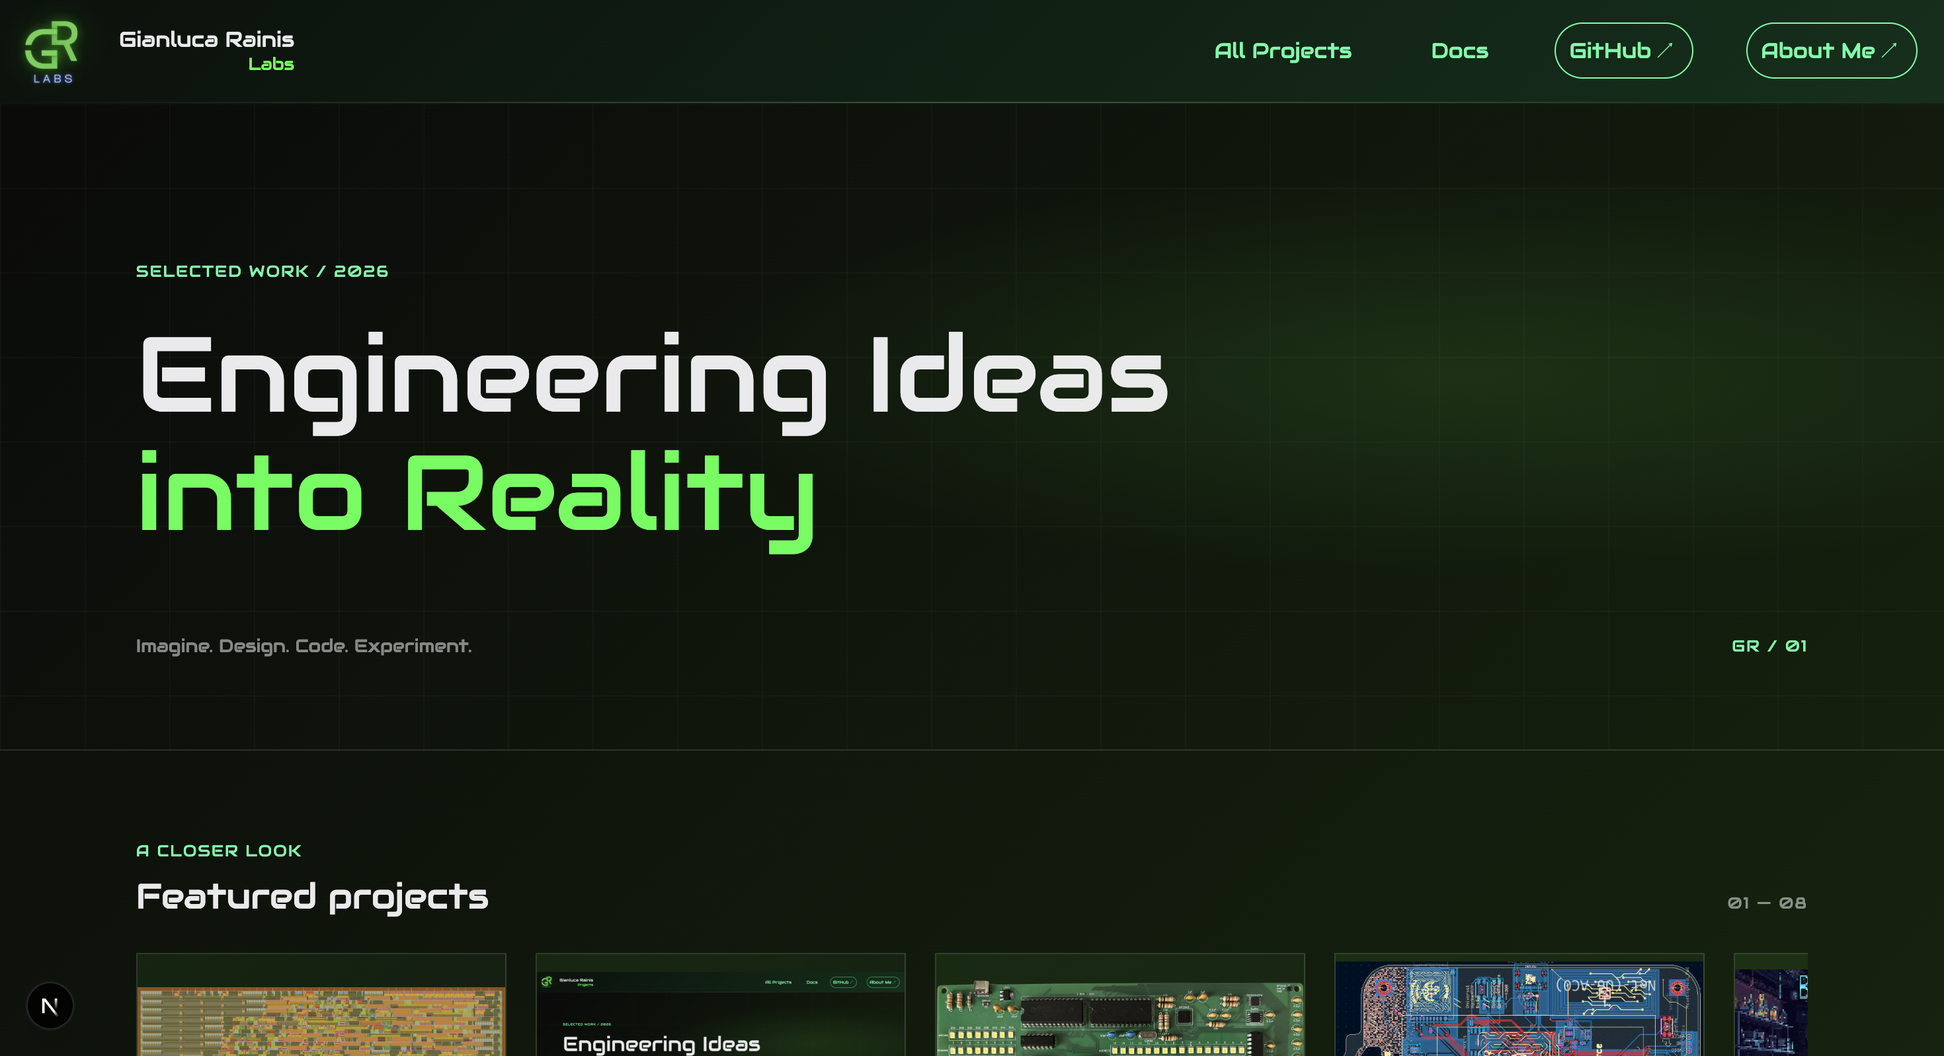
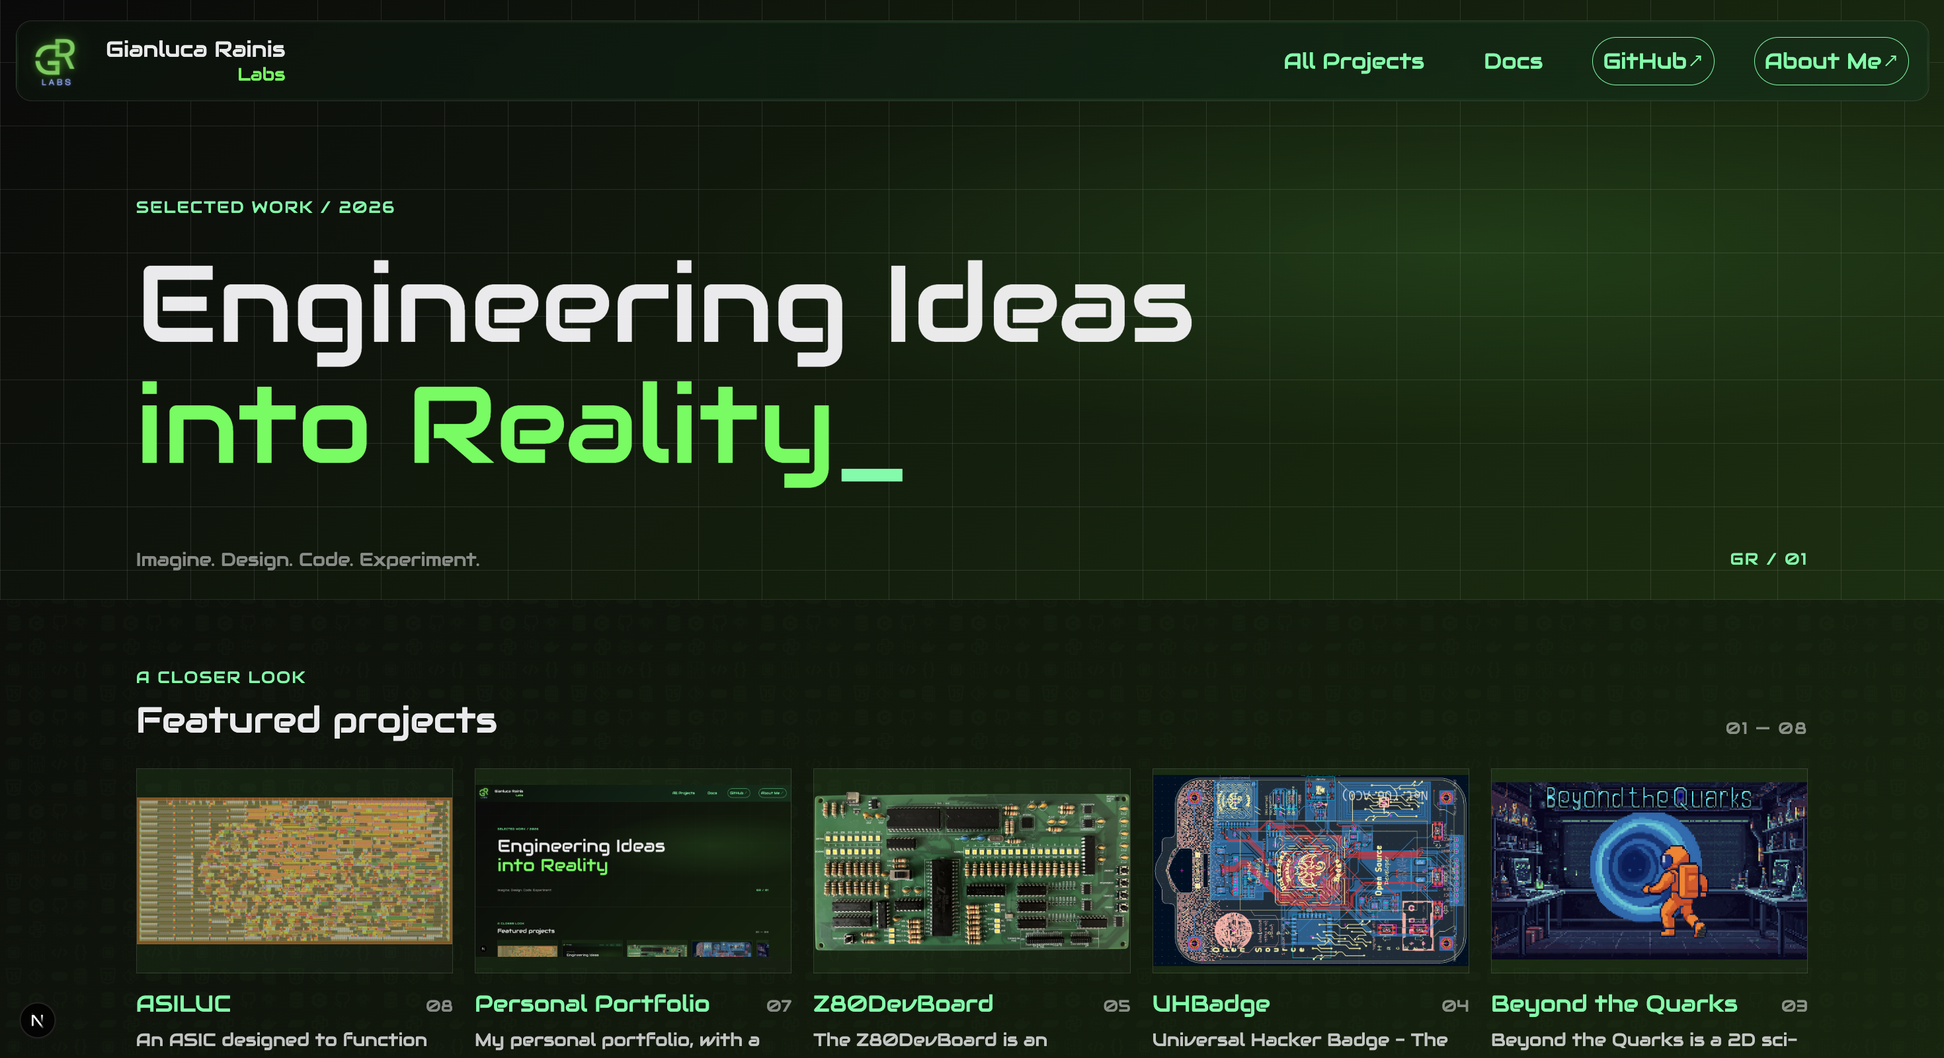
Wrote the personal portfolio page. Fixed some details.

diff --git a/pages/projects/personalPortfolio.js b/pages/projects/personalPortfolio.js
@@ -1,0 +1,345 @@
+import Head from '@/components/Head';
+import Nav from '@/components/Nav';
+import Footer from '@/components/Footer';
+import styles from '@/styles/projects.module.css';
+import { usePathname } from 'next/navigation';
+import Link from 'next/link';
+import { MoveLeft, MoveRight, BookOpenText, Link as LinkIcon } from 'lucide-react';
+import { useState } from 'react';
+
+export async function getStaticProps() {
+    return {
+        props: {
+            pageTitle: "Personal Portfolio"
+        }
+    };
+}
+
+export default function ProjectPage({ pageTitle }) {
+    const path = usePathname();
+    const [isSubmitting, setIsSubmitting] = useState(false);
+    const [formStatus, setFormStatus] = useState('');
+
+    async function handleSupportSubmit(event) {
+        event.preventDefault();
+        setIsSubmitting(true);
+        setFormStatus('');
+
+        const form = event.currentTarget;
+        const formData = new FormData(form);
+
+        try {
+            const response = await fetch('/api/contact', {
+                method: 'POST',
+                headers: { 'Content-Type': 'application/json' },
+                body: JSON.stringify({
+                    senderName: formData.get('senderName'),
+                    replyEmail: formData.get('replyEmail'),
+                    subject: formData.get('subject'),
+                    message: formData.get('message')
+                })
+            });
+
+            const result = await response.json();
+
+            if (!response.ok) {
+                throw new Error(result.error || 'Unable to send your message.');
+            }
+
+            form.reset();
+            setFormStatus('Your support message has been sent. Thank you!');
+        } catch (error) {
+            setFormStatus(error.message || 'Unable to send your message. Please try again.');
+        } finally {
+            setIsSubmitting(false);
+        }
+    }
+
+    return (
+        <>
+            <Head pageTitle={pageTitle} pageUrl={path} />
+            <Nav />
+
+            <main className={styles.projectPage}>
+                <header className={styles.projectHeader}>
+                    <Link href='/projects' className={styles.backLink}><MoveLeft className={styles.backarrowIcon} /> All projects</Link>
+                    <div>
+                        <div className={styles.projectHeaderInfo}>
+                            <h1>Personal Portfolio</h1>
+                            <ul>
+                                <li className={styles.projectCategory}>Website</li>
+                                <li className={styles.projectStatus}>In Development</li>
+                            </ul>
+                        </div>
+                        <p className={styles.projectDescription}>My personal portfolio, with a high-tech inspired interface.</p>
+                        <ul className={styles.projectTags}>
+                            <li>personal portfolio</li>
+                            <li>website</li>
+                            <li>nextjs</li>
+                            <li>react</li>
+                            <li>high-tech</li>
+                        </ul>
+                    </div>
+                    <img src="/projects/personalPortfolioPreview.png" alt="Project image" className={styles.projectImage} />
+                    <div className={styles.projectLinks}>
+                        <a href="https://github.com/gianluca-rainis/personalPortfolio" className={styles.projectLink} target="_blank" rel="noopener noreferrer">
+                            <img src="/GitHubLogo.svg" alt="GitHub icon" />
+                            <div className={styles.projectLinkText}>
+                                <p>View on GitHub <MoveRight className={styles.forwardArrowIcon} /></p>
+                                <p>Source Code, Documentation & More</p>
+                            </div>
+                        </a>
+                        <a href="https://projects.gianlucarainis.com/" className={styles.projectLink} target="_blank" rel="noopener noreferrer">
+                            <LinkIcon />
+                            <div className={styles.projectLinkText}>
+                                <p>Live demo <MoveRight className={styles.forwardArrowIcon} /></p>
+                                <p>Browse the portfolio</p>
+                            </div>
+                        </a>
+                    </div>
+                </header>
+                <section className={styles.projectContent}>
+                    <aside className={styles.aside}>
+                        <nav className={styles.desktopAside} aria-label="Project sections">
+                            <Link href="#overview"><BookOpenText /> Overview</Link>
+                            <Link href="#architecture"><BookOpenText /> Architecture</Link>
+                            <Link href="#code"><BookOpenText /> Code</Link>
+                            <Link href="#resources"><BookOpenText /> Resources</Link>
+                            <Link href="#support"><BookOpenText /> Support</Link>
+                        </nav>
+                        <details className={styles.asideMenu}>
+                            <summary>On this page</summary>
+                            <nav aria-label="Project sections">
+                                <Link href="#overview"><BookOpenText /> Overview</Link>
+                                <Link href="#architecture"><BookOpenText /> Architecture</Link>
+                                <Link href="#code"><BookOpenText /> Code</Link>
+                                <Link href="#resources"><BookOpenText /> Resources</Link>
+                                <Link href="#support"><BookOpenText /> Support</Link>
+                            </nav>
+                        </details>
+                    </aside>
+                    <article className={styles.projectArticle}>
+                        <section id="overview">
+                            <h2>Overview</h2>
+                            <p>
+                                This portfolio is the place where all my projects live.
+                                It's built with Next.js and React, and it has a high-tech inspired interface.
+                                It collects the projects I work on in one place, together with the documentation, the researches and the guides that explain how they work.
+                            </p>
+                            <p>
+                                The projects are not just a list of links: every project has its own page, with an overview, the architecture, the most interesting parts of the code and the resources to try it or read more.
+                                The documents are written in MDX, so they are rendered directly inside the site, with their own metadata.
+                            </p>
+                            <img src="/projects/personalPortfolioPreview.png" alt="Personal portfolio home page" />
+                            <citation>The home page of the portfolio</citation>
+                        </section>
+                        <section id="architecture">
+                            <h2>Architecture</h2>
+
+                            <h3>Website structure</h3>
+                            <p>
+                                The portfolio is a Next.js application made of five kinds of pages.
+                                Every page shares the same head, navigation bar and footer, which are separate components reused across the site.
+                            </p>
+                            <ul>
+                                <li><strong>Home</strong>: shows the featured projects and all the other projects. It also works as a manifesto for the website.</li>
+                                <li><strong>Projects</strong>: shows all the projects, with filters and a search function.</li>
+                                <li><strong>Docs</strong>: collects the documentation, the documents, the researches and the guides about the projects.</li>
+                                <li><strong>Project Page</strong>: one page for every project, with detailed information, images and technical informations.</li>
+                                <li><strong>Document Page</strong>: one page for every document, with integrated MDX rendering and document metadata.</li>
+                            </ul>
+
+                            <h3>Projects</h3>
+                            <p>
+                                The information shown in the project cards is stored in a dedicated data folder, separated from the interface.
+                                The home page and the projects page read that same data to build their lists, so a card only has to be written once.
+                            </p>
+                            <p>
+                                Every project also has its own page, written separately from the data, usually with an overview, the architecture, the code and the resources.
+                                The projects page lets the visitor narrow the list of cards with filters and a search function, so even a long list stays easy to explore.
+                            </p>
+                            <img src="/projects/personalPortfolioProjects.png" alt="Personal portfolio projects page" />
+                            <citation>The projects page, with filters and search</citation>
+
+                            <h3>Documents</h3>
+                            <p>
+                                The documents are MDX files stored in a separate folder of the repository.
+                                MDX allows writing the content in Markdown and using React components inside it, so a document can be a simple guide or a more complex page.
+                            </p>
+                            <p>
+                                Each document has its own metadata (for example title and description) that is shown with the content and used to list it in the docs page.
+                            </p>
+                            <img src="/projects/personalPortfolioDocs.png" alt="Personal portfolio docs page" />
+                            <citation>The docs page</citation>
+                        </section>
+                        <section id="code">
+                            <h2>Code</h2>
+                            <p>
+                                The portfolio is developed with Next.js and React, with CSS modules for the styles.
+                                The code is split in components, data, documents and internal functions, so each part can be changed without touching the rest.
+                                The following sections explore some of the key parts of the implementation.
+                            </p>
+
+                            <h3>Project structure</h3>
+                            <p>
+                                The repository follows the standard Next.js layout, with some extra folders for the content of the portfolio.
+                            </p>
+                            <pre>
+                                <code>
+                                    {String.raw`personalPortfolio/
+├── components/        # UI pieces of the site
+├── data/              # The projects informations
+├── docs/              # The documentation to show in the Docs section
+├── lib/               # Implementation of internal functions
+├── pages/             # Site pages
+├── public/            # Images and downloadable files
+├── styles/            # Global styles and CSS modules
+├── mdx-components.tsx # Component to support the mdx files rendering
+└── next.config.mjs    # Next.js Configuration to support the mdx files`}
+                                </code>
+                            </pre>
+                            <p>
+                                The content is kept apart from the interface: <code>data</code> and <code>docs</code> hold what is shown, while <code>components</code>, <code>pages</code> and <code>styles</code> decide how it is shown.
+                            </p>
+
+                            <h3>Projects data</h3>
+                            <p>
+                                Every project is described by a single object, which contains everything the cards and the filters need.
+                            </p>
+                            <pre>
+                                <code>
+                                    {String.raw`{
+    {
+        "number": "07",
+        "category": "Website",
+        "title": "Personal Portfolio",
+        "description": "My personal portfolio, with a high-tech inspired interface.",
+        "image": "/projects/personalPortfolioPreview.png",
+        "imageAlt": "Image of my personal portfolio's home page",
+        "tags": ["personal portfolio", "website", "nextjs", "react", "high-tech"],
+        "status": "In Development",
+        "href": "/projects/personalPortfolio",
+        "featured": true
+    },
+}`}
+                                </code>
+                            </pre>
+                            <p>
+                                The <code>featured</code> value decides which projects are shown in the first section of the home page.
+                            </p>
+
+                            <h3>Filters and search</h3>
+                            <p>
+                                The projects page keeps the filters and the search text in its state, and computes the visible list from the full data every time one of them changes.
+                            </p>
+                            <pre>
+                                <code>
+                                    {String.raw`const visibleProjects = useMemo(() => {
+    const query = searched.trim().toLowerCase();
+
+    const filteredProjects = projects.filter((project) => {
+        const matchesTag = selectedTag === 'all' || project.tags.includes(selectedTag);
+        
+        const searchableText = [
+            project.number,
+            project.category,
+            project.title,
+            project.description,
+            project.imageAlt,
+            project.status,
+            ...project.tags
+        ].join(' ').toLowerCase();
+
+        return matchesTag && searchableText.includes(query);
+    });
+
+    return filteredProjects.sort((first, second) => {
+        if (sortOrder === 'title-asc') {
+            return first.title.localeCompare(second.title);
+        }
+
+        const numberDifference = Number(first.number) - Number(second.number);
+
+        return sortOrder === 'number-asc' ? numberDifference : -numberDifference;
+    });
+}, [searched, selectedTag, sortOrder]);`}
+                                </code>
+                            </pre>
+                            <p>
+                                The original list is never modified, so removing a filter or clearing the search brings back every project.
+                            </p>
+
+                            <h3>MDX rendering</h3>
+                            <p>
+                                The Next.js configuration includes a dedicated file to support MDX, and a components file that tells the site how to render each element of a document.
+                                This way all the documents share the same look of the rest of the portfolio.
+                            </p>
+                        </section>
+                        <section id="resources">
+                            <h2>Resources</h2>
+                            <p>
+                                Explore the resources available for the portfolio, including the source code, the documentation and the live version.
+                            </p>
+
+                            <h3>Live Website</h3>
+                            <p>
+                                The portfolio is online and always up to date.
+                                Browse the projects, use the filters and open some documents to see how the pages work.
+                            </p>
+                            <p>
+                                <a href="https://projects.gianlucarainis.com/" target="_blank" rel="noopener noreferrer" style={{ display: 'flex', width: 'fit-content' }}>
+                                    Visit projects.gianlucarainis.com <MoveRight className={styles.forwardarrowIcon} />
+                                </a>
+                            </p>
+
+                            <h3>Source Repository</h3>
+                            <p>
+                                All project files, including the pages, the components, the data and the documents, are publicly available on GitHub under the MIT license.
+                            </p>
+                            <p>
+                                <a href="https://github.com/gianluca-rainis/personalPortfolio" target="_blank" rel="noopener noreferrer" style={{ display: 'flex', width: 'fit-content' }}>
+                                    Visit the GitHub repository <MoveRight className={styles.forwardarrowIcon} />
+                                </a>
+                            </p>
+                        </section>
+                        <section id="support">
+                            <h2>Support</h2>
+                            <p>
+                                Found a bug, have a question, or want to contribute to my personal portfolio?
+                                Send me a message and I will get back to you.
+                            </p>
+                            <form className={styles.supportForm} onSubmit={handleSupportSubmit}>
+                                <label>
+                                    Name <span>(optional)</span>
+                                    <input type="text" name="senderName" autoComplete="name" maxLength="100" />
+                                </label>
+                                <label>
+                                    Reply email <span>(optional)</span>
+                                    <input type="email" name="replyEmail" autoComplete="email" maxLength="254" />
+                                </label>
+                                <label>
+                                    Subject
+                                    <input type="text" name="subject" required maxLength="500" />
+                                </label>
+                                <label>
+                                    Message
+                                    <textarea name="message" required rows="7" maxLength="10000" />
+                                </label>
+                                <button className={styles.supportSubmit} type="submit" disabled={isSubmitting}>
+                                    {isSubmitting ? 'Sending...' : 'Send message'}
+                                </button>
+                                {formStatus && (
+                                    <p className={styles.supportStatus} role="status" aria-live="polite">
+                                        {formStatus}
+                                    </p>
+                                )}
+                            </form>
+                        </section>
+                    </article>
+                </section>
+            </main>
+
+            <Footer />
+        </>
+    );
+}

diff --git a/pages/projects/ASILUC.js b/pages/projects/ASILUC.js
@@ -598,6 +598,17 @@ end`}
                                 Explore the resources available for ASILUC, including technical documentation, design files and tools to inspect and experiment with the ASIC.
                             </p>
 
+                            <h3>Articles</h3>
+                            <div className={styles.projectLinks}>
+                                <a href="/docs/designing-an-ASIC-from-scratch" className={styles.projectLink} target="_blank" rel="noopener noreferrer">
+                                    <BookOpenText />
+                                    <div className={styles.projectLinkText}>
+                                        <p>Designing an ASIC from scratch <MoveRight className={styles.forwardArrowIcon} /></p>
+                                        <p>The Guide that describe how I designed ASILUC and how it works</p>
+                                    </div>
+                                </a>
+                            </div>
+
                             <h3>Documentation</h3>
                             <p>
                                 The project documentation provides additional technical information about ASILUC, explaining its architecture, operation, interface and implementation.

diff --git a/pages/projects/template.js b/pages/projects/template.js
@@ -139,7 +139,7 @@ export default function ProjectPage({ pageTitle }) {
                         <section id="support">
                             <h2>Support</h2>
                             <p>
-                                Found a bug, have a question, or want to contribute to ASILUC?
+                                Found a bug, have a question, or want to contribute to this project?
                                 Send me a message and I will get back to you.
                             </p>
                             <form className={styles.supportForm} onSubmit={handleSupportSubmit}>
